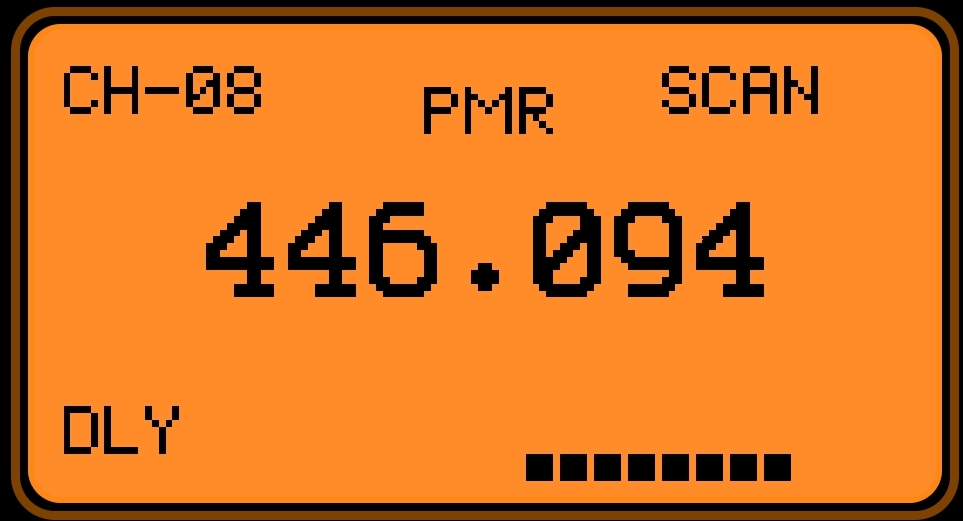
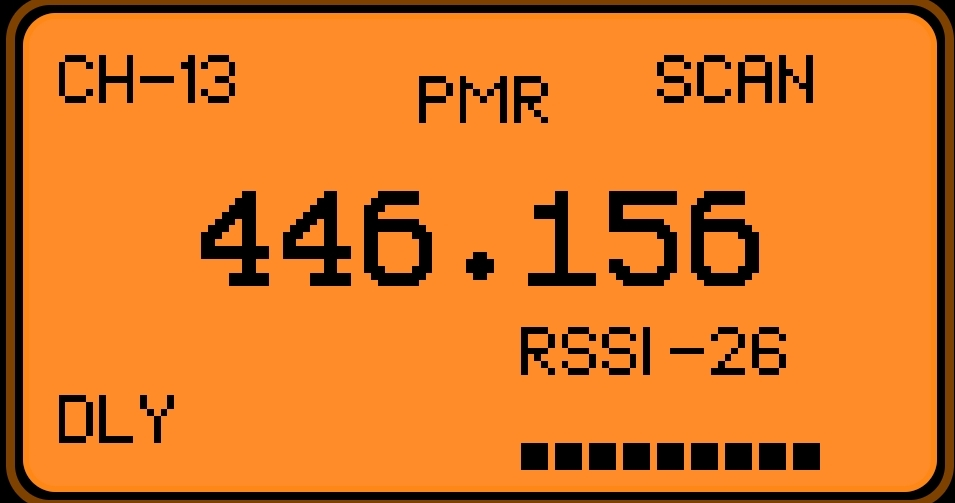
Added real time RSSI, calibration, improved scanning

diff --git a/ham_scanner_app.c b/ham_scanner_app.c
@@ -8,6 +8,7 @@
 
 
 static void radio_scanner_apply_freq(RadioScannerApp* app);
+static void radio_scanner_update_rssi(RadioScannerApp* app);
 
 #define RADIO_SCANNER_DEFAULT_RSSI        (-100.0f)
 #define RADIO_SCANNER_DEFAULT_SENSITIVITY (-85.0f)
@@ -17,6 +18,7 @@ static void radio_scanner_apply_freq(RadioScannerApp* app);
 #define CHANNEL_SETTLE_MS 15
 #define SCAN_PASS_DELAY 10
 #define MENU_ITEMS_COUNT 3
+#define RSSI_OFFSET 6.0f
 
 static const uint32_t pmr446_channels[] = {
     446006250, 446018750, 446031250, 446043750,
@@ -58,11 +60,16 @@ canvas_draw_str(canvas, 90, 10, app->scanning ? "SCAN" : "HOLD");
     char freq[32];
     snprintf(freq, sizeof(freq), "%.3f", (double)app->frequency / 1000000);
     canvas_draw_str_aligned(canvas, 64, 30, AlignCenter, AlignCenter, freq);
+    canvas_set_font(canvas, FontSecondary);
 
 float target = (app->rssi + 100) / 8.0f;
 app->bars_smooth = (0.5f * target) + (0.5f * app->bars_smooth);
 
 int bars = (int)app->bars_smooth;
+
+char rssi_str[20];
+snprintf(rssi_str, sizeof(rssi_str), "RSSI %d", (int)app->rssi);
+canvas_draw_str(canvas, 70, 50, rssi_str);
 
 if(bars < 0) bars = 0;
 if(bars > 10) bars = 10;
@@ -114,7 +121,10 @@ static float radio_scanner_get_avg_rssi(RadioScannerApp* app) {
     float total = 0;
 
     for(int i = 0; i < samples; i++) {
-        total += subghz_devices_get_rssi(app->radio_device);
+        float raw = subghz_devices_get_rssi(app->radio_device);
+        float calibrated = raw - RSSI_OFFSET;
+
+        total += calibrated;
         furi_delay_ms(RSSI_DELAY_MS);
     }
 
@@ -151,7 +161,7 @@ return (best * 0.7f) + (center_rssi * 0.3f);
 }
 
 static float radio_scanner_smooth_rssi(RadioScannerApp* app, float new_rssi) {
-    const float alpha = 0.2f; // smoothing factor (0.1 = very smooth, 0.5 = fast)
+    float alpha = app->scanning ? 0.45f : 0.7f; // smoothing factor (0.1 = very smooth, 0.5 = fast)
 
     app->rssi_smoothed = (alpha * new_rssi) + ((1.0f - alpha) * app->rssi_smoothed);
     return app->rssi_smoothed;
@@ -496,8 +506,11 @@ static void radio_scanner_rx_callback(const void* d, size_t s, void* ctx) {
 }
 
 static void radio_scanner_update_rssi(RadioScannerApp* app) {
-    float raw = subghz_devices_get_rssi(app->radio_device);
-    app->rssi = radio_scanner_smooth_rssi(app, raw);
+    if(!app || !app->radio_device) return;
+
+float raw = subghz_devices_get_rssi(app->radio_device);
+float calibrated = raw - RSSI_OFFSET;
+app->rssi = radio_scanner_smooth_rssi(app, calibrated);
 }
 
 static bool radio_scanner_init_subghz(RadioScannerApp* app) {
@@ -588,28 +601,28 @@ if(app->signal_locked) {
 }
 
     // ============================ SPEED CONFIG =================
-    int passes = 2;
-    int settle = 15;
+int passes = 2;
+int settle = 8;  // default
 
-    switch(app->scan_speed) {
-        case ScanSpeedFast:
-            passes = 1;
-            settle = 10;
-            break;
+switch(app->scan_speed) {
+    case ScanSpeedFast:
+        passes = 1;
+        settle = 5;
+        break;
 
-        case ScanSpeedBalanced:
-            passes = 2;
-            settle = 18;
-            break;
+    case ScanSpeedBalanced:
+        passes = 2;
+        settle = 8;
+        break;
 
-        case ScanSpeedAccurate:
-            passes = 2;
-            settle = 20;
-            break;
+    case ScanSpeedAccurate:
+        passes = 2;
+        settle = 12;
+        break;
 
-        default:
-            break;
-    }
+    default:
+        break;
+}
 
     // ================= MULTIPASS SCAN ==========================
 float scores[128];
@@ -622,14 +635,23 @@ for(size_t i = 0; i < app->channel_count; i++) {
 
         for(size_t i = 0; i < app->channel_count; i++) {
             if(!app->scanning) return;
+            
+float live;
 
-            app->channel_index = i;
-            app->frequency = app->channels[i];
+app->channel_index = i;
+app->frequency = app->channels[i];
 
-            radio_scanner_apply_freq(app);
-            furi_delay_ms(settle);
+radio_scanner_apply_freq(app);
+furi_delay_ms(settle);
 
-            float rssi;
+float raw = subghz_devices_get_rssi(app->radio_device);
+live = raw - RSSI_OFFSET;
+
+float alpha_scan = 0.6f; 
+app->rssi_smoothed = (alpha_scan * live) + ((1.0f - alpha_scan) * app->rssi_smoothed);
+app->rssi = app->rssi_smoothed;
+
+float rssi;
 
 if(app->scan_speed == ScanSpeedFast) {
     rssi = radio_scanner_get_avg_rssi(app);
@@ -809,10 +831,10 @@ int32_t ham_scanner_app(void* p) {
 
     while(app->running) {
 
-        if(app->scanning)
-            radio_scanner_process_scanning(app);
-        else
-            radio_scanner_update_rssi(app);
+radio_scanner_update_rssi(app);
+
+if(app->scanning)
+    radio_scanner_process_scanning(app);
 
 if(furi_message_queue_get(app->event_queue, &event, 10) == FuriStatusOk) {
 

diff --git a/README.md b/README.md
@@ -4,6 +4,32 @@ A lightweight SubGHz radio scanner, designed to behave like a scanner for common
 
 ---
 
+## 🆕 What’s New in v1.1
+
+### Real time RSSI
+- RSSI live view during scanning
+- Provides a true real time view of signal strength
+- Added offset correction for more accurate dBm readings
+
+### Faster & Smarter Scanning
+- Optimized scan timing for better speed and reliability
+- Improved signal detection consistency
+
+### Live RSSI per Channel (when on hold)
+- RSSI is refreshed after every frequency hop
+- Display always matches the current channel
+
+---
+
+## 📸 Screenshots
+
+<p align="center">
+  <img src="screenshots/main_screen.jpg" width="220">
+  <img src="screenshots/menu_screen.jpg" width="220">
+</p>
+
+---
+
 ## ✨ Features
 
   * Scan predefined radio channel groups
@@ -15,15 +41,6 @@ A lightweight SubGHz radio scanner, designed to behave like a scanner for common
     - Hold
   * Adjust scanning speed. F (Fast and less accurate), M (Medium), A (Accuracy) 
   * Manual channel switching when scanning is paused
-
----
-
-## 📸 Screenshots
-
-<p align="center">
-  <img src="screenshots/main_screen.jpg" width="220">
-  <img src="screenshots/menu_screen.jpg" width="220">
-</p>
 
 ---
 
@@ -61,13 +78,12 @@ A lightweight SubGHz radio scanner, designed to behave like a scanner for common
 
 ## ⚠ NOTES!
 
-* This app uses the internal CC1101 Sub-GHz radio, which has some limitations.
+* This app uses the internal CC1101 Subghz, which has some limitations.
 * Reception quality depends on environment and antenna.
   Experiment with your radios voltage output and the apps squelch level.
 * Scanning FRS/GMRS band! Remember, some channels like CH-6 (462.687) and CH-20 (462.675) 
   are very close to each other, so scanner might choose one or the other.
-* When testing with both devices close, hold your flippers antenna close to your radios antenna. this is to get accurate reading
-  when there is not much distance between the devices.
+* When testing with both devices close, hold your flippers antenna close to your radios antenna for most accurate reading.
 * When putting scan on HOLD, Exiting app or entering Menu, give it a couple of seconds. Its working HARD!
 
 ---
